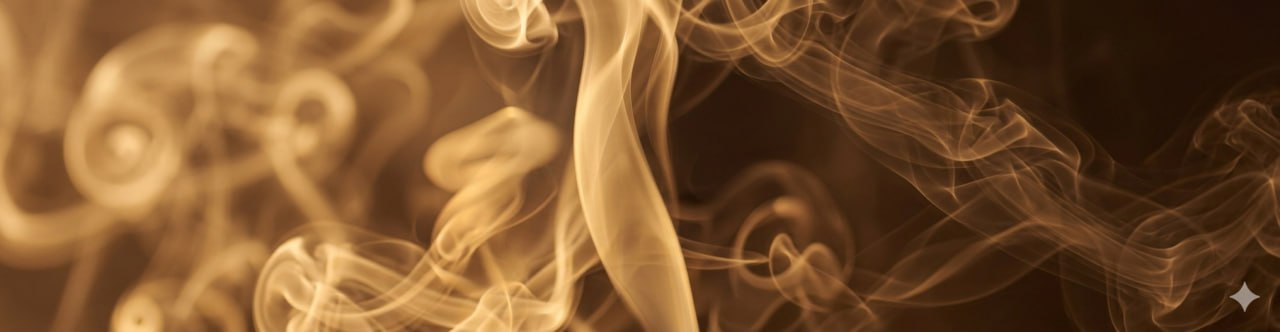
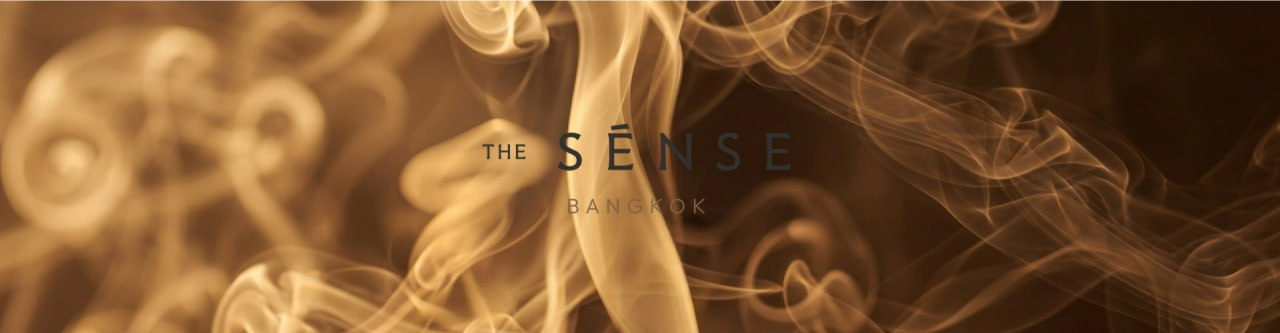
Use final header image with all text baked in

diff --git a/index.html b/index.html
@@ -76,20 +76,10 @@
         
         /* Header */
         header {
-            padding: 80px 20px 60px;
             text-align: center;
-            background: url('assets/images/header-bg.jpg') no-repeat center / cover;
-            background-position: center 30%;
             position: relative;
             overflow: hidden;
-        }
-        
-        header::before {
-            content: '';
-            position: absolute;
-            top: 0; left: 0; right: 0; bottom: 0;
-            background: rgba(10, 10, 10, 0.35);
-            pointer-events: none;
+            line-height: 0;
         }
         
         @media (min-width: 769px) {
@@ -99,26 +89,14 @@
         }
         
         .header-content {
-            max-width: 800px;
-            margin: 0 auto;
-            position: relative;
-            z-index: 2;
+            width: 100%;
+            line-height: 0;
         }
         
-        .logo {
-            font-family: 'Playfair Display', serif;
-            font-size: 4.2rem;
-            font-weight: 700;
-            letter-spacing: 1px;
-            color: #f0e6d3;
-            margin-bottom: 10px;
-            text-shadow: 0 2px 8px rgba(0, 0, 0, 0.5);
-        }
-        
-        .logo span {
-            font-weight: 700;
-            color: #d4af37;
-            text-shadow: 0 2px 8px rgba(0, 0, 0, 0.5);
+        .header-logo-img {
+            width: 100%;
+            height: auto;
+            display: block;
         }
         
         .location i {
@@ -547,7 +525,7 @@
     <!-- Header -->
     <header>
         <div class="header-content">
-            <h1 class="logo">THE <span>SENSE</span></h1>
+            <img src="assets/images/header-bg.jpg" alt="THE SENSE Bangkok" class="header-logo-img">
         </div>
     </header>
     
